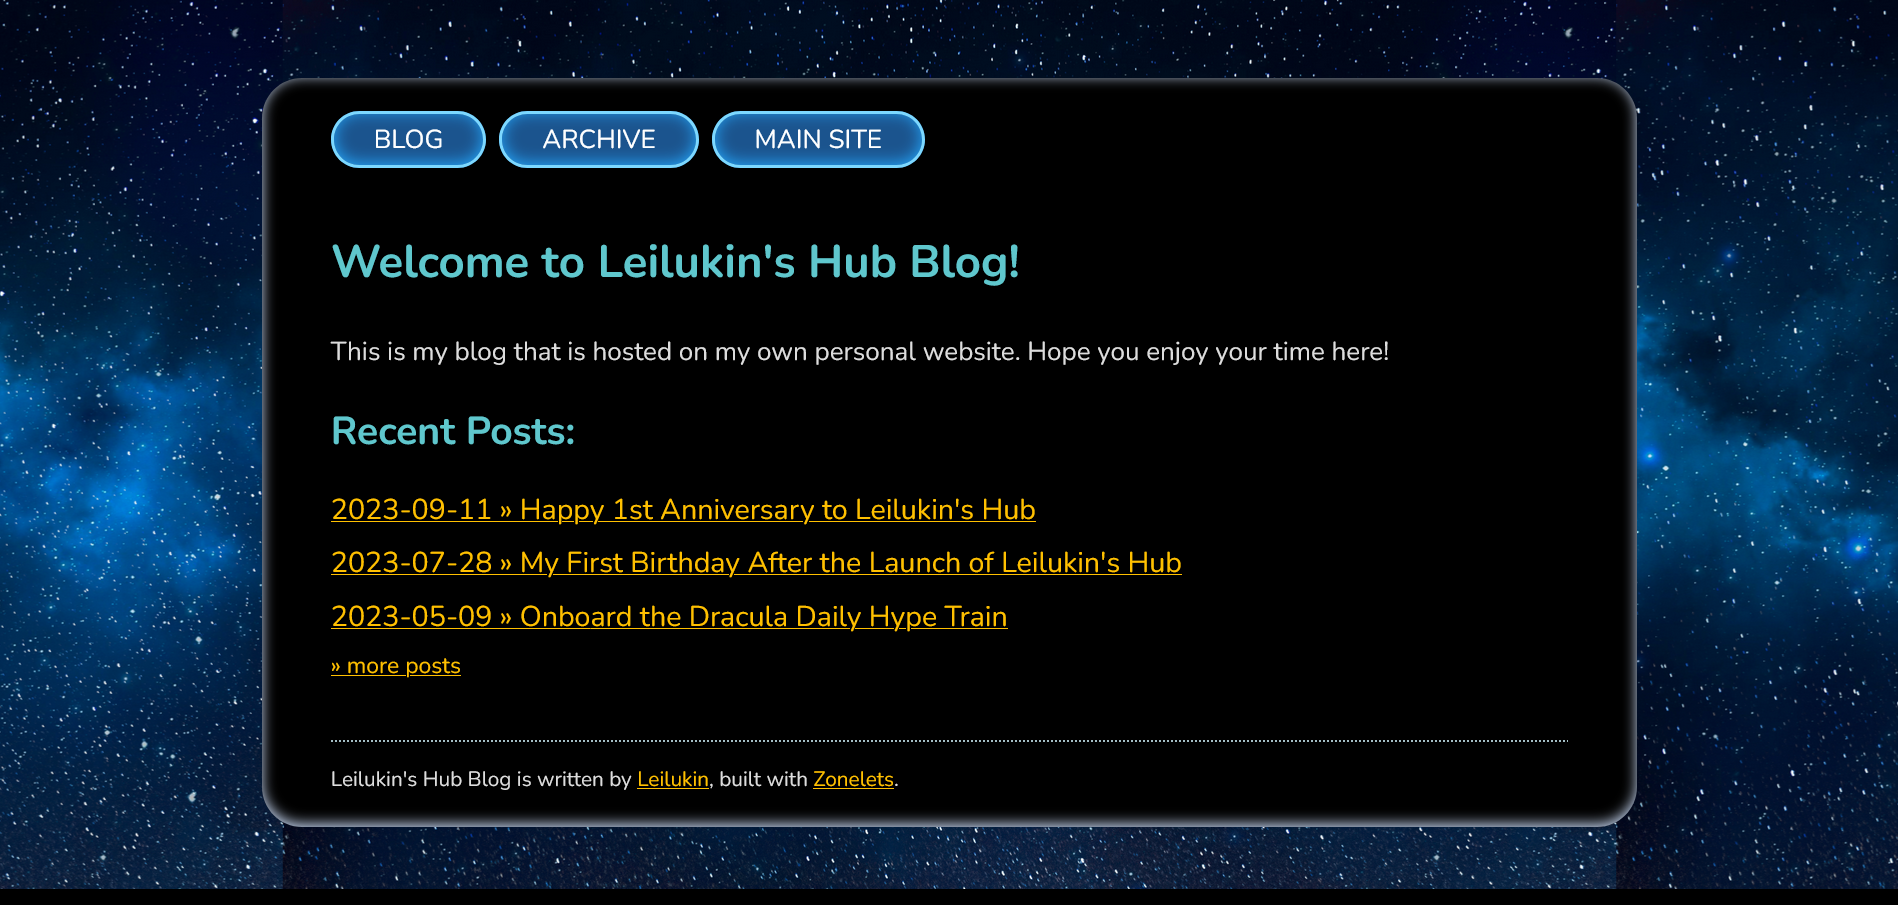
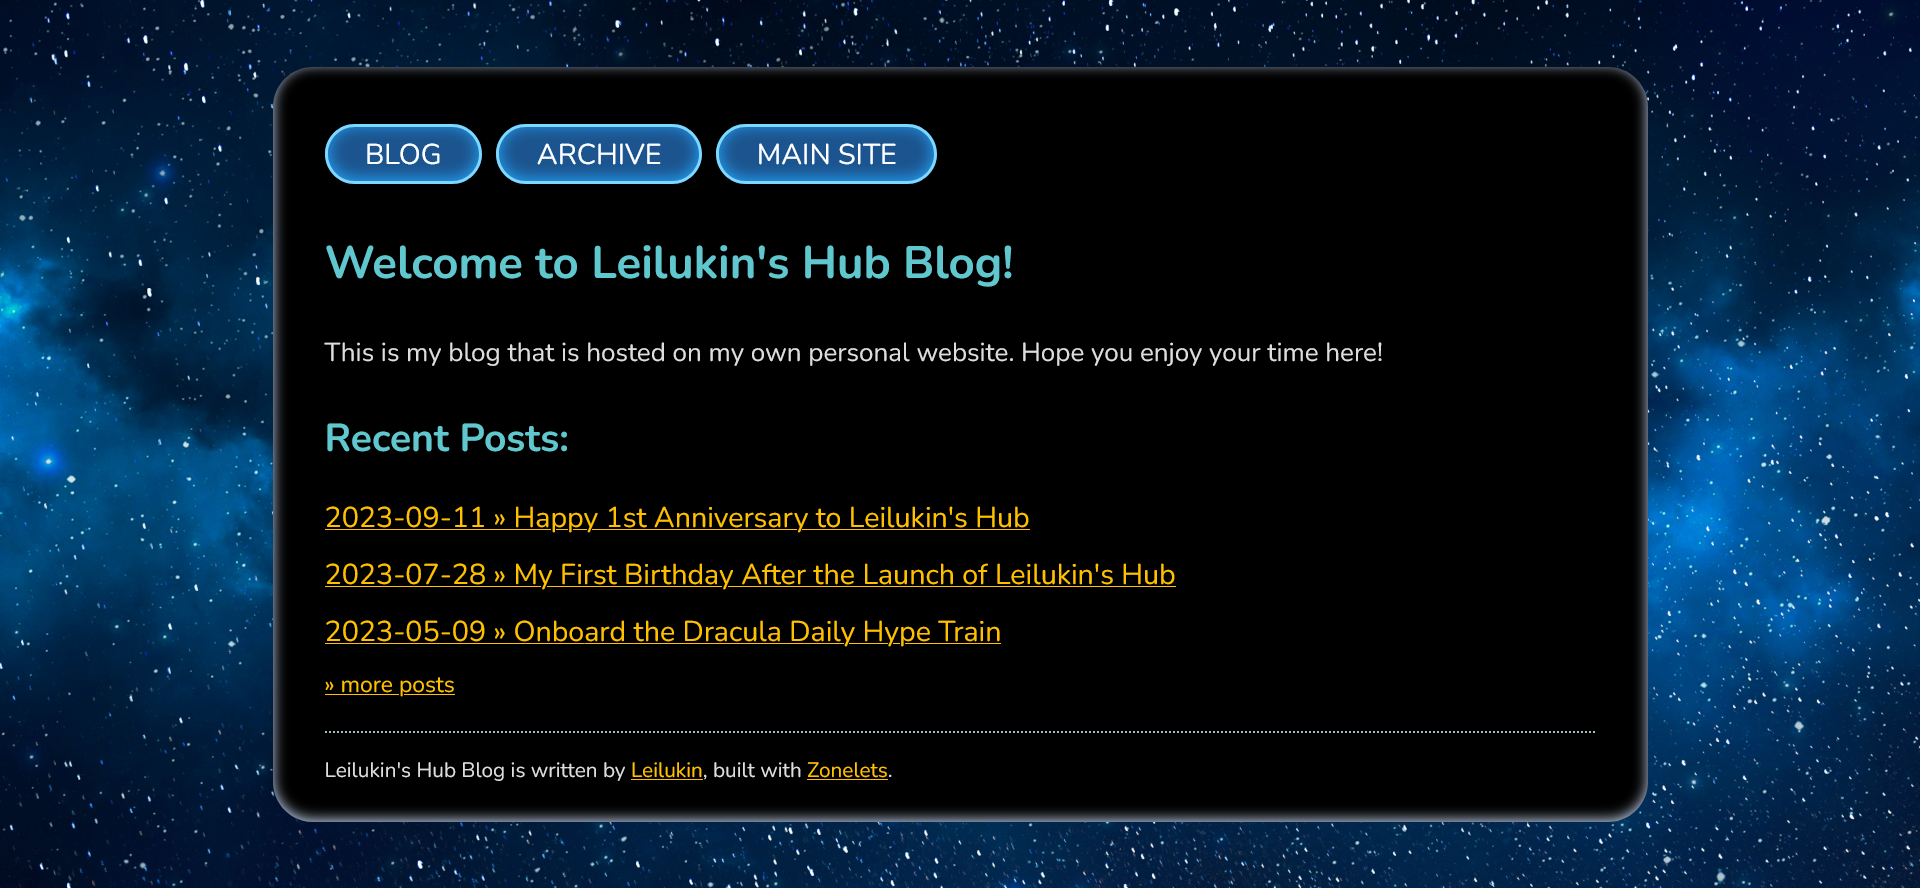
Improve blog layout

diff --git a/blog/css/style-blog.css b/blog/css/style-blog.css
@@ -14,20 +14,110 @@
     font-style: italic;
 }
 
+/* CSS RESET */
+/* Box sizing rules */
+*,
+*::before,
+*::after {
+    box-sizing: border-box;
+}
+
+/* Remove default margin */
+body,
+h1,
+h2,
+h3,
+h4,
+p,
+figure,
+blockquote,
+dl,
+dd {
+    margin: 0;
+}
+
+/* Remove list styles on ul, ol elements with a list role, which suggests default styling will be removed */
+ul[role='list'],
+ol[role='list'] {
+    list-style: none;
+}
+
+/* Set core root defaults */
+html:focus-within {
+    scroll-behavior: smooth;
+}
+
+/* Set core body defaults */
+body {
+    min-height: 100vh;
+    text-rendering: optimizeSpeed;
+    line-height: 1.5;
+}
+
+/* A elements that don't have a class get default styles */
+a:not([class]) {
+    text-decoration-skip-ink: auto;
+}
+
+/* Make images easier to work with */
+img,
+picture {
+    max-width: 100%;
+    display: block;
+}
+
+/* Inherit fonts for inputs and buttons */
+input,
+button,
+textarea,
+select {
+    font: inherit;
+}
+
+/* Remove all animations, transitions and smooth scroll for people that prefer not to see them */
+@media (prefers-reduced-motion: reduce) {
+    html:focus-within {
+        scroll-behavior: auto;
+    }
+
+    *,
+    *::before,
+    *::after {
+        animation-duration: 0.01ms !important;
+        animation-iteration-count: 1 !important;
+        transition-duration: 0.01ms !important;
+        scroll-behavior: auto !important;
+    }
+}
+
+/* STYLING BEGINS */
+/* General styles */
 body {
     background-color: black;
     background-image: url('../img/bg_space.png');
     background-position: center;
     background-repeat: repeat-x;
-    background-size: contain;
+    background-size: cover;
     background-attachment: fixed;
     font-size: 1.3rem;
     font-family: 'Nunito', Arial, sans-serif;
-    margin: 0;
+    min-height: 100vh;
+    display: flex;
+    align-items: center;
+    justify-content: center;
+}
+
+h1 {
+    margin-bottom: 1.2rem;
+}
+
+h1, h2, h3, h4, h5 {
+    color: #5fc7cd;
 }
 
 p {
     line-height: 1.6em;
+    padding: 0.5rem 0;
 }
 
 strong {
@@ -79,10 +169,6 @@ a:hover {
     background-color: #34220b;
 }
 
-h1, h2, h3, h4, h5 {
-    color: #5fc7cd;
-}
-
 hr {
     border-width: 0.1rem 0 0 0;
     border-style: dotted;
@@ -91,23 +177,20 @@ hr {
 
 /* The rectangle that has contains everything but the background */
 .blog-container {
-    margin: 3em auto;
-    width: 90%;
+    width: 95%;
     max-width: 68.75rem;
     background-color: black;
     color: #dddddd;
     border-radius: 2rem;
     overflow: hidden;
     box-shadow: 0 -2px 10px 0 #c7d8f4 inset;
-}
-
-.blog-content {
-    padding: 0.5rem 5% 1rem 5%;
+    margin: 1em 0;
+    padding: 1em 2em;
 }
 
 /* HEADER STYLE */
 .blog-header {
-    padding: 0 5%;
+    margin-bottom: 0.5em;
 }
 
 .blog-header ul {
@@ -119,18 +202,19 @@ hr {
 }
 
 .blog-header li {
-    font-size: 1em;
+    font-size: 1.1em;
     display: inline-block;
     margin-right: 0.5em;
-    margin-top: 0.7em;
+    margin-bottom: 0.5em;
+    margin-top: 0.5em;
 }
 
 .blog-header li a {
     color: white;
     background-color: #1b548e;
-    border-radius: 20rem;
+    border-radius: 25px;
     border: 3px solid #7cd8ff;
-    padding: 0.4rem 2rem;
+    padding: 6px 30px;
     box-shadow: 0 -2px 12px 0 #23a4f8 inset;
     text-transform: uppercase;
     text-decoration: none;
@@ -139,12 +223,6 @@ hr {
 .blog-header li a:hover {
     background-color: #1f64aa;
     text-decoration: none;
-}
-
-.blog-header li a:active {
-    background-color: #8e8d74;
-    text-decoration: none;
-    box-shadow: 0 -2px 12px 0 #fe83ff inset;
 }
 
 /* POST TITLE STYLE */
@@ -156,9 +234,14 @@ hr {
 /* POST DATE STYLE */
 .blog-post__date {
     font-size: 1.1em;
+    margin-bottom: 1.1em;
 }
 
 /* POST LIST STYLE */
+.blog-recent-post-list {
+    margin-top: 1em;
+}
+
 .blog-post-list ul,
 .blog-recent-post-list ul {
     font-size: 1.1em;
@@ -179,7 +262,7 @@ hr {
 /*NEXT AND PREVIOUS LINKS STYLE*/
 .blog-nextprev {
     text-align: center;
-    margin-top: 1.4em;
+    margin: 1.4em 0;
 }
 
 /* DISQUS STYLE */
@@ -190,5 +273,4 @@ hr {
 /* FOOTER STYLE */
 .blog-footer {
     font-size: 0.8em;
-    padding: 0 5% 0.5rem 5%;
 }

diff --git a/blog/archive.html b/blog/archive.html
@@ -27,7 +27,7 @@
         <main class="blog-container" id="container">
             <header class="blog-header" id="header">...</header>
             <article class="blog-content" id="content">    
-                <h1>Blog Archive</h1>    
+                <h1 class="blog__title">Blog Archive</h1>    
                 <section class="blog-post-list" id="postlistdiv"></section>
             </article> <!-- end of article id="content" -->
             <footer class="blog-footer" id="footer"></footer>
